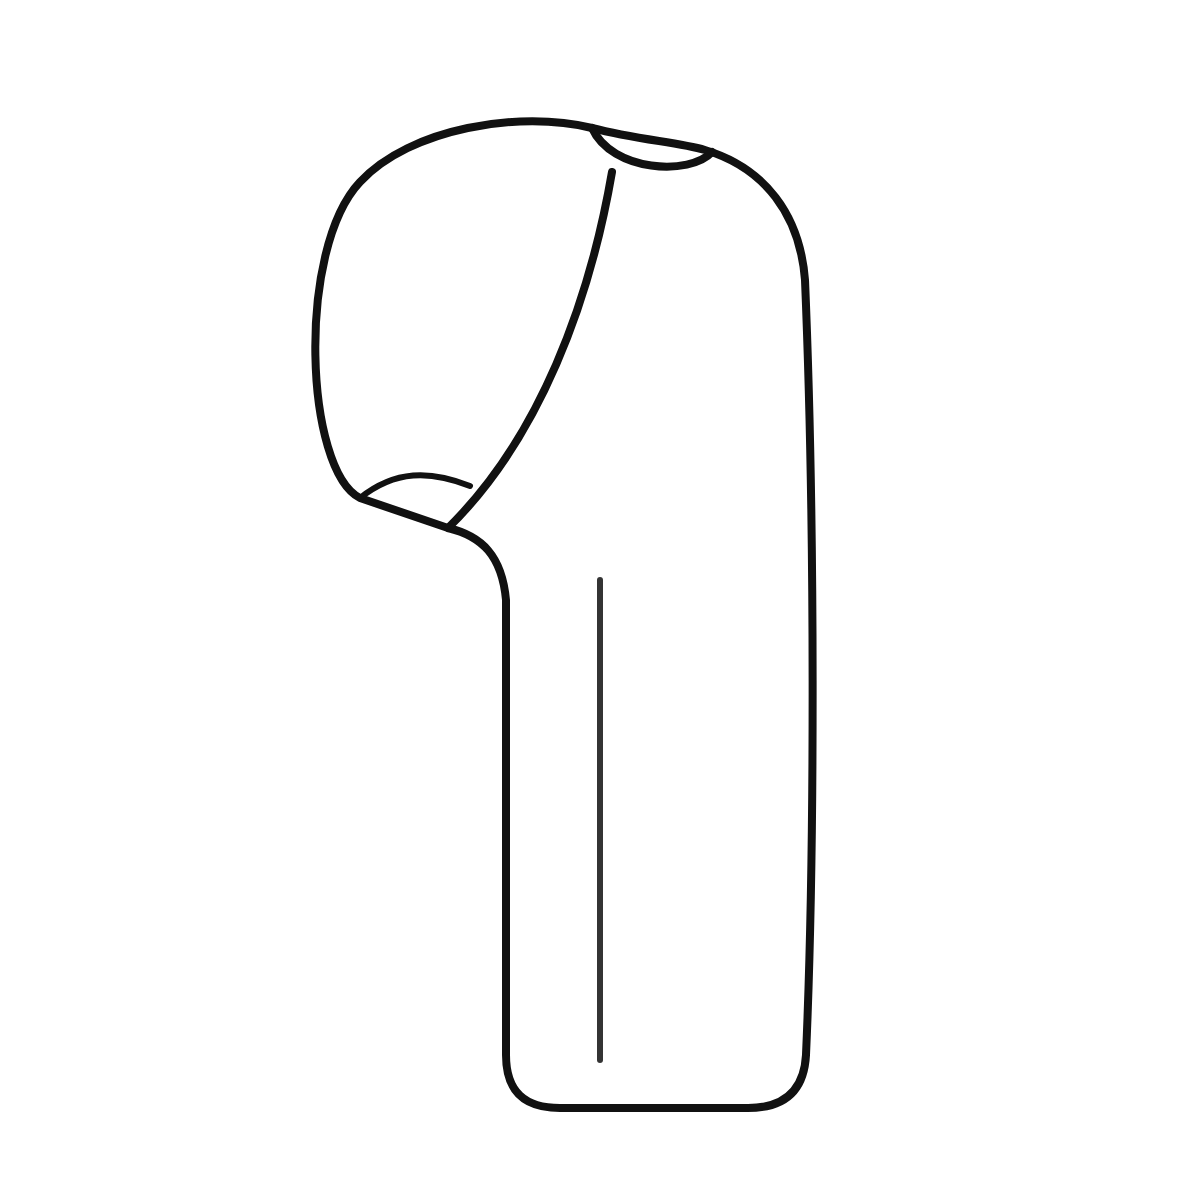
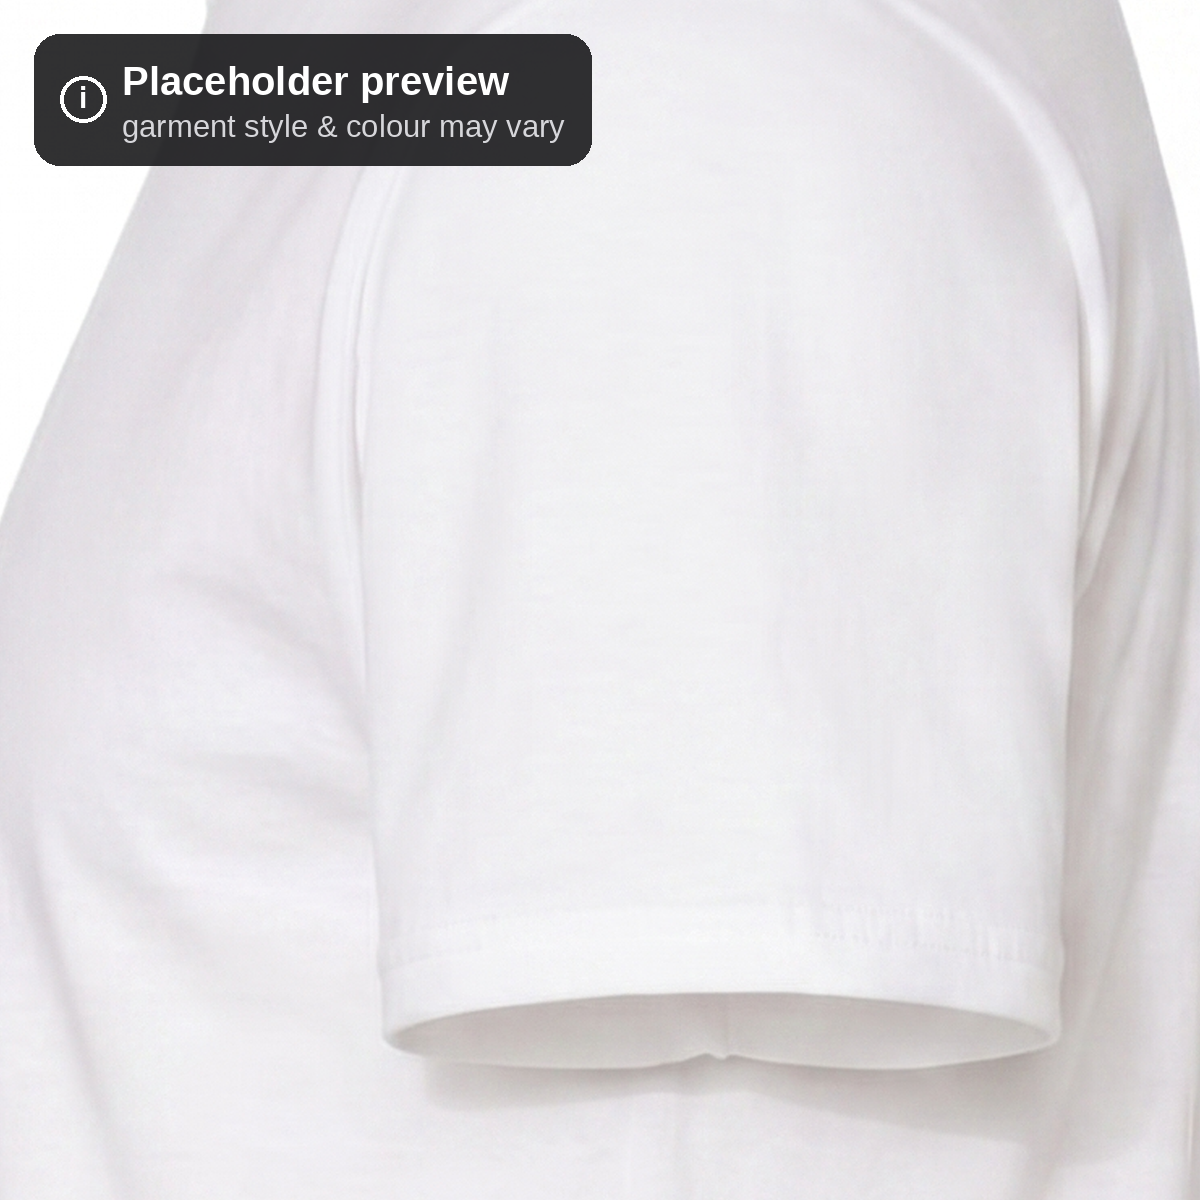
Fix customizer back/sleeve art bleed; photo sleeve render w/ placeholder badge + cache-bust

diff --git a/fr/quote.html b/fr/quote.html
@@ -4611,8 +4611,8 @@
     // Side-view sleeve render — pre-bake placeholder + fallback. The photoreal,
     // colour-matched sleeve is produced server-side by /api/shop/compose
     // (sleeve-ai); this gives the sleeve tab a side-view surface before baking.
-    var SP_SLEEVE_RENDER   = '/images/sleeve-left.png';
-    var SP_SLEEVE_RENDER_R = '/images/sleeve-right.png';
+    var SP_SLEEVE_RENDER   = '/images/sleeve-left.png?v=2';
+    var SP_SLEEVE_RENDER_R = '/images/sleeve-right.png?v=2';
 
     // Upload each File at most once (compose needs a server-fetchable URL/path,
     // not a blob: URL). Cached by File identity.
@@ -4637,7 +4637,9 @@
       // tuned preset centre.
       if (/sleeve/i.test(presetId)) {
         var isRight = /right/i.test(presetId);
-        return { x: isRight ? 0.565 : 0.305, y: 0.20, w: 0.13 };
+        // Centre the art on the sleeve print zone of the photo render
+        // (left photo: sleeve at x~0.58; right render is the mirror at x~0.42).
+        return { x: isRight ? 0.32 : 0.48, y: 0.35, w: 0.20 };
       }
       var pre = placementPresets[presetId] || {};
       var sizeW = { 'left-chest': 0.18, 'right-chest': 0.18, 'small': 0.16, 'medium': 0.34, 'large': 0.5, 'xl': 0.62 };
@@ -4701,8 +4703,10 @@
       var placements = (opts.placements || []).filter(Boolean);
       if (!placements.length) placements = ['center-chest'];
 
-      // Resolve the design File per placement (fall back to the first art the
-      // customer attached, so every selected placement previews something).
+      // Resolve the design File per placement. Each placement only previews the
+      // art that was actually uploaded for it — placements without their own art
+      // stay blank (no fallback), so e.g. a front-only design never bleeds onto
+      // the back tab.
       var firstFile = null;
       var fileByP = {};
       placements.forEach(function(p) {
@@ -4713,7 +4717,7 @@
         alert('Ajoutez d’abord votre image (le champ de téléversement), puis touchez « Personnaliser et prévisualiser ».');
         return;
       }
-      placements.forEach(function(p) { if (!fileByP[p]) fileByP[p] = firstFile; });
+      function hasArt(p) { return fileByP[p] instanceof File; }
 
       var boxes = {};
       placements.forEach(function(p) {
@@ -4724,6 +4728,7 @@
       var objURLs = {};
       function artURL(p) {
         var f = fileByP[p];
+        if (!f) return '';
         if (!objURLs[f.name + f.size]) objURLs[f.name + f.size] = URL.createObjectURL(f);
         return objURLs[f.name + f.size];
       }
@@ -4798,9 +4803,21 @@
         var gp = garmentFor(p);
         garImg.src = gp ? (typeof imgUrl === 'function' ? imgUrl(gp) : gp) : '';
         garImg.style.display = gp ? '' : 'none';
-        artImg.src = artURL(p);
-        slider.value = boxes[p].w;
-        positionArt();
+        if (hasArt(p)) {
+          artImg.src = artURL(p);
+          artImg.style.display = '';
+          slider.disabled = false;
+          slider.value = boxes[p].w;
+          positionArt();
+          statusEl.textContent = 'Glissez votre image, ajustez la taille, puis prévisualisez.';
+        } else {
+          // Aucune image téléversée pour cet emplacement — n’afficher que le vêtement.
+          artImg.src = '';
+          artImg.style.display = 'none';
+          slider.disabled = true;
+          var lbl = (placementPresets[p] && placementPresets[p].label) || p;
+          statusEl.textContent = 'Aucune image téléversée pour « ' + lbl + ' » — téléversez-en une pour la personnaliser.';
+        }
       }
       function positionArt() {
         var b = boxes[curP()];
@@ -4872,6 +4889,7 @@
           if (!info || (!info.path && !info.signed_url)) throw new Error('échec du téléversement de l’image');
           var chain = Promise.resolve();
           placements.forEach(function(p) {
+            if (!hasArt(p)) return; // skip placements with no uploaded art
             chain = chain.then(function() {
               return spUploadDesignOnce(fileByP[p]).then(function(di) {
                 var b = boxes[p];
@@ -4899,7 +4917,9 @@
         bakeAll().then(function(out) {
           bakedMockups = out.mockups;
           // Show the active placement's baked image in the stage as confirmation.
-          var m = bakedMockups.filter(function(x) { return x.placement === curP(); })[0] || bakedMockups[0];
+          // Only swap in a mockup that belongs to the current placement, so a
+          // blank tab (no art) keeps showing the plain garment.
+          var m = bakedMockups.filter(function(x) { return x.placement === curP(); })[0];
           if (m) { garImg.src = m.url; artImg.style.display = 'none'; }
           setBusy(false, 'Ça vous plaît? Touchez « Utiliser cette maquette ».');
         }).catch(function(e) {

diff --git a/quote.html b/quote.html
@@ -4623,8 +4623,8 @@
     // Side-view sleeve render — pre-bake placeholder + fallback. The photoreal,
     // colour-matched sleeve is produced server-side by /api/shop/compose
     // (sleeve-ai); this gives the sleeve tab a side-view surface before baking.
-    var SP_SLEEVE_RENDER   = '/images/sleeve-left.png';
-    var SP_SLEEVE_RENDER_R = '/images/sleeve-right.png';
+    var SP_SLEEVE_RENDER   = '/images/sleeve-left.png?v=2';
+    var SP_SLEEVE_RENDER_R = '/images/sleeve-right.png?v=2';
 
     // Upload each File at most once (compose needs a server-fetchable URL/path,
     // not a blob: URL). Cached by File identity.
@@ -4649,7 +4649,9 @@
       // tuned preset centre.
       if (/sleeve/i.test(presetId)) {
         var isRight = /right/i.test(presetId);
-        return { x: isRight ? 0.565 : 0.305, y: 0.20, w: 0.13 };
+        // Centre the art on the sleeve print zone of the photo render
+        // (left photo: sleeve at x~0.58; right render is the mirror at x~0.42).
+        return { x: isRight ? 0.32 : 0.48, y: 0.35, w: 0.20 };
       }
       var pre = placementPresets[presetId] || {};
       var sizeW = { 'left-chest': 0.18, 'right-chest': 0.18, 'small': 0.16, 'medium': 0.34, 'large': 0.5, 'xl': 0.62 };
@@ -4713,8 +4715,10 @@
       var placements = (opts.placements || []).filter(Boolean);
       if (!placements.length) placements = ['center-chest'];
 
-      // Resolve the design File per placement (fall back to the first art the
-      // customer attached, so every selected placement previews something).
+      // Resolve the design File per placement. Each placement only previews the
+      // art that was actually uploaded for it — placements without their own art
+      // stay blank (no fallback), so e.g. a front-only design never bleeds onto
+      // the back tab.
       var firstFile = null;
       var fileByP = {};
       placements.forEach(function(p) {
@@ -4725,7 +4729,7 @@
         alert('Add your artwork first (the upload field), then tap “Customize & preview”.');
         return;
       }
-      placements.forEach(function(p) { if (!fileByP[p]) fileByP[p] = firstFile; });
+      function hasArt(p) { return fileByP[p] instanceof File; }
 
       var boxes = {};
       placements.forEach(function(p) {
@@ -4736,6 +4740,7 @@
       var objURLs = {};
       function artURL(p) {
         var f = fileByP[p];
+        if (!f) return '';
         if (!objURLs[f.name + f.size]) objURLs[f.name + f.size] = URL.createObjectURL(f);
         return objURLs[f.name + f.size];
       }
@@ -4810,9 +4815,21 @@
         var gp = garmentFor(p);
         garImg.src = gp ? (typeof imgUrl === 'function' ? imgUrl(gp) : gp) : '';
         garImg.style.display = gp ? '' : 'none';
-        artImg.src = artURL(p);
-        slider.value = boxes[p].w;
-        positionArt();
+        if (hasArt(p)) {
+          artImg.src = artURL(p);
+          artImg.style.display = '';
+          slider.disabled = false;
+          slider.value = boxes[p].w;
+          positionArt();
+          statusEl.textContent = 'Drag your art, set the size, then preview.';
+        } else {
+          // No design uploaded for this placement — show the blank garment only.
+          artImg.src = '';
+          artImg.style.display = 'none';
+          slider.disabled = true;
+          var lbl = (placementPresets[p] && placementPresets[p].label) || p;
+          statusEl.textContent = 'No design uploaded for ' + lbl + ' yet — upload one to customize it.';
+        }
       }
       function positionArt() {
         var b = boxes[curP()];
@@ -4884,6 +4901,7 @@
           if (!info || (!info.path && !info.signed_url)) throw new Error('artwork upload failed');
           var chain = Promise.resolve();
           placements.forEach(function(p) {
+            if (!hasArt(p)) return; // skip placements with no uploaded art
             chain = chain.then(function() {
               return spUploadDesignOnce(fileByP[p]).then(function(di) {
                 var b = boxes[p];
@@ -4911,7 +4929,9 @@
         bakeAll().then(function(out) {
           bakedMockups = out.mockups;
           // Show the active placement's baked image in the stage as confirmation.
-          var m = bakedMockups.filter(function(x) { return x.placement === curP(); })[0] || bakedMockups[0];
+          // Only swap in a mockup that belongs to the current placement, so a
+          // blank tab (no art) keeps showing the plain garment.
+          var m = bakedMockups.filter(function(x) { return x.placement === curP(); })[0];
           if (m) { garImg.src = m.url; artImg.style.display = 'none'; }
           setBusy(false, 'Looks good? Tap “Use this mockup”.');
         }).catch(function(e) {